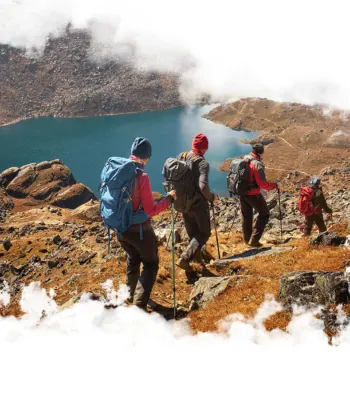
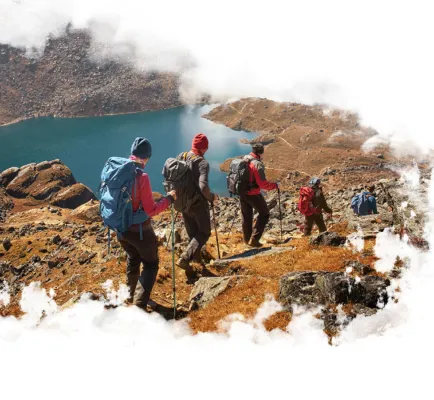
fix: picture in about has become non-content

diff --git a/source/sass/blocks/about.scss b/source/sass/blocks/about.scss
@@ -1,3 +1,32 @@
+.about {
+  background-position: left 20px;
+  background-repeat: no-repeat;
+  background-image:
+    image-set(url("../img/about/about-mobile@2x.webp") type("image/webp") 2x,
+      url("../img/about/about-mobile@1x.webp") type("image/webp") 1x,
+      url("../img/about/about-mobile@2x.jpg") type("image/jpg") 2x,
+      url("../img/about/about-mobile@1x.jpg") type("image/jpg") 1x);
+
+  @media (min-width: $tablet-width) {
+    background-position: left 174px;
+    background-image:
+      image-set(url("../img/about/about-tablet@2x.webp") type("image/webp") 2x,
+        url("../img/about/about-tablet@1x.webp") type("image/webp") 1x,
+        url("../img/about/about-tablet@2x.jpg") type("image/jpg") 2x,
+        url("../img/about/about-tablet@1x.jpg") type("image/jpg") 1x);
+  }
+
+  @media (min-width: $desktop-width) {
+    background-position: left 100px;
+    padding-bottom: 149px;
+    background-image:
+      image-set(url("../img/about/about-desktop@2x.webp") type("image/webp") 2x,
+        url("../img/about/about-desktop@1x.webp") type("image/webp") 1x,
+        url("../img/about/about-desktop@2x.jpg") type("image/jpg") 2x,
+        url("../img/about/about-desktop@1x.jpg") type("image/jpg") 1x);
+  }
+}
+
 .about__wrapper {
   position: relative;
 
@@ -6,13 +35,13 @@
 
   max-width: 320px;
   margin: 0 auto;
-  padding-top: 21px;
+  padding-top: 419px;
 
   color: $color-elephant;
 
   @media (min-width: $tablet-width) {
     flex-direction: row;
-
+    justify-content: flex-end;
     max-width: 765px;
     padding: 0;
   }
@@ -28,12 +57,12 @@
 
   @media (min-width: $tablet-width) {
     padding: 60px 46px 0 0;
+    margin: 0;
   }
 
   @media (min-width: $desktop-width) {
     max-width: max-content;
-    margin: 0;
-    padding: 146px 120px 0 0;
+    padding: 145px 195px 0 0;
   }
 }
 
@@ -95,60 +124,60 @@
   }
 }
 
-.about__img-wrapper {
-  overflow: hidden;
+// .about__img-wrapper {
+//   overflow: hidden;
 
-  max-width: 320px;
+//   max-width: 320px;
 
-  @media (min-width: $tablet-width) {
-    display: flex;
+//   @media (min-width: $tablet-width) {
+//     display: flex;
 
-    max-width: 448px;
-  }
+//     max-width: 448px;
+//   }
 
-  @media (min-width: $desktop-width) {
-    display: block;
+//   @media (min-width: $desktop-width) {
+//     display: block;
 
-    max-width: max-content;
-  }
-}
+//     max-width: max-content;
+//   }
+// }
 
-.about__picture {
-  display: block;
+// .about__picture {
+//   display: block;
 
-  width: 350px;
-  height: 398px;
+//   width: 350px;
+//   height: 398px;
 
-  background-color: $color-nobel;
+//   background-color: $color-nobel;
 
-  @media (min-width: $tablet-width) {
-    width: 540px;
-    height: 350px;
-    margin: 174px 0 auto;
-  }
+//   @media (min-width: $tablet-width) {
+//     width: 540px;
+//     height: 350px;
+//     margin: 174px 0 auto;
+//   }
 
-  @media (min-width: $desktop-width) {
-    width: 660px;
-    height: 498px;
-    margin: 0;
-    margin-top: 101px;
-  }
+//   @media (min-width: $desktop-width) {
+//     width: 660px;
+//     height: 498px;
+//     margin: 0;
+//     margin-top: 101px;
+//   }
 
-  .about__picture-img {
-    width: 350px;
-    height: 398px;
+//   .about__picture-img {
+//     width: 350px;
+//     height: 398px;
 
-    @media (min-width: $tablet-width) {
-      width: 540px;
-      height: 350px;
-    }
+//     @media (min-width: $tablet-width) {
+//       width: 540px;
+//       height: 350px;
+//     }
 
-    @media (min-width: $desktop-width) {
-      width: 660px;
-      height: 498px;
-    }
-  }
-}
+//     @media (min-width: $desktop-width) {
+//       width: 660px;
+//       height: 498px;
+//     }
+//   }
+// }
 
 .about__header-small {
   padding-top: 17px;

diff --git a/source/index.html b/source/index.html
@@ -599,7 +599,7 @@
       </section>
       <section class="about" id="about" data-test="about">
         <div class="about__wrapper">
-          <div class="about__img-wrapper">
+          <!-- <div class="about__img-wrapper">
             <picture class="about__picture">
               <source type="image/webp" media="(min-width: 1440px)" srcset="img/about/about-desktop@1x.webp 1x,
               img/about/about-desktop@2x.webp 2x">
@@ -616,7 +616,7 @@
                 srcset="img/about/about-mobile@2x.jpg 2x" alt="Фотография пяти человек в горах" width="350"
                 height="398">
             </picture>
-          </div>
+          </div> -->
           <div class="about__content-wrapper">
             <h2 class="about__header-small title">О нас</h2>
             <span class="about__header-big title title--big">О нас</span>
